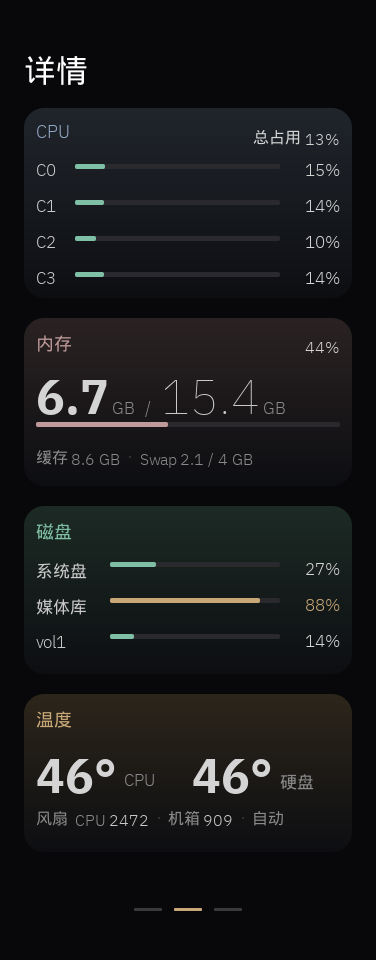
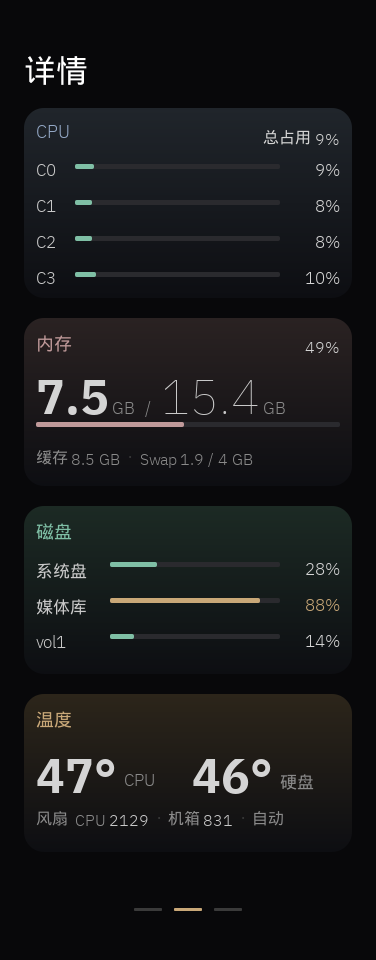
docs(readme): 三页截图更新到 v0.9.6 实机
旧图是 v0.9.0 之前拍的，三处已经对不上现在的屏：

- 首页 CPU 曲线还是细线 —— 现在是从曲线淡出到图表底边的面积填充
- 系统页底部还挂着「令牌 / 数据」两个药丸 —— 令牌已移到控制卡右下角点按显示
- 首页那个雾天画的是月牙 —— 那是「雨夜强制画月亮」的老 bug，早已修掉

新图用 cmd/preview 在设备上采样渲染，版本号写 v0.9.6、地址换成 RFC 5737
保留地址（工具当场替换），图注补上生成方式。

diff --git a/README.md b/README.md
@@ -10,9 +10,9 @@
 
 | 环境（主屏） | 详情 | 系统 |
 |:---:|:---:|:---:|
-| ![环境](docs/screenshots/env.png?v=090) | ![详情](docs/screenshots/detail.png?v=090) | ![系统](docs/screenshots/system.png?v=090) |
+| ![环境](docs/screenshots/env.png?v=096) | ![详情](docs/screenshots/detail.png?v=096) | ![系统](docs/screenshots/system.png?v=096) |
 
-*三页触摸翻页 · 88px 大时钟+天气融合 · 首屏放趋势（CPU 60 秒曲线）、每核明细在详情页 · 每卡一色的低饱和 tonal 配色 · 读数与进度条共用一套阈值色（<50 绿 / ≥50 沙金 / ≥80 珊瑚）· 截图中局域网与公网地址已替换为 RFC 5737 文档保留地址（`192.168.1.10` / `203.0.113.42`）*
+*三页触摸翻页 · 88px 大时钟+天气融合 · 首屏放趋势（CPU 60 秒曲线、面积填充）、每核明细在详情页 · 每卡一色的低饱和 tonal 配色 · 读数与进度条共用一套阈值色（<50 绿 / ≥50 沙金 / ≥80 珊瑚）· 三张图由 `cmd/preview -all` 在真机上直接采样渲染（不是截屏，也不修图），局域网与公网地址由该工具当场换成 RFC 5737 文档保留地址（`192.168.1.10` / `203.0.113.42`）*
 
 管理面板（`http://<设备IP>:8080`，浅色 / 深色两套）：
 
